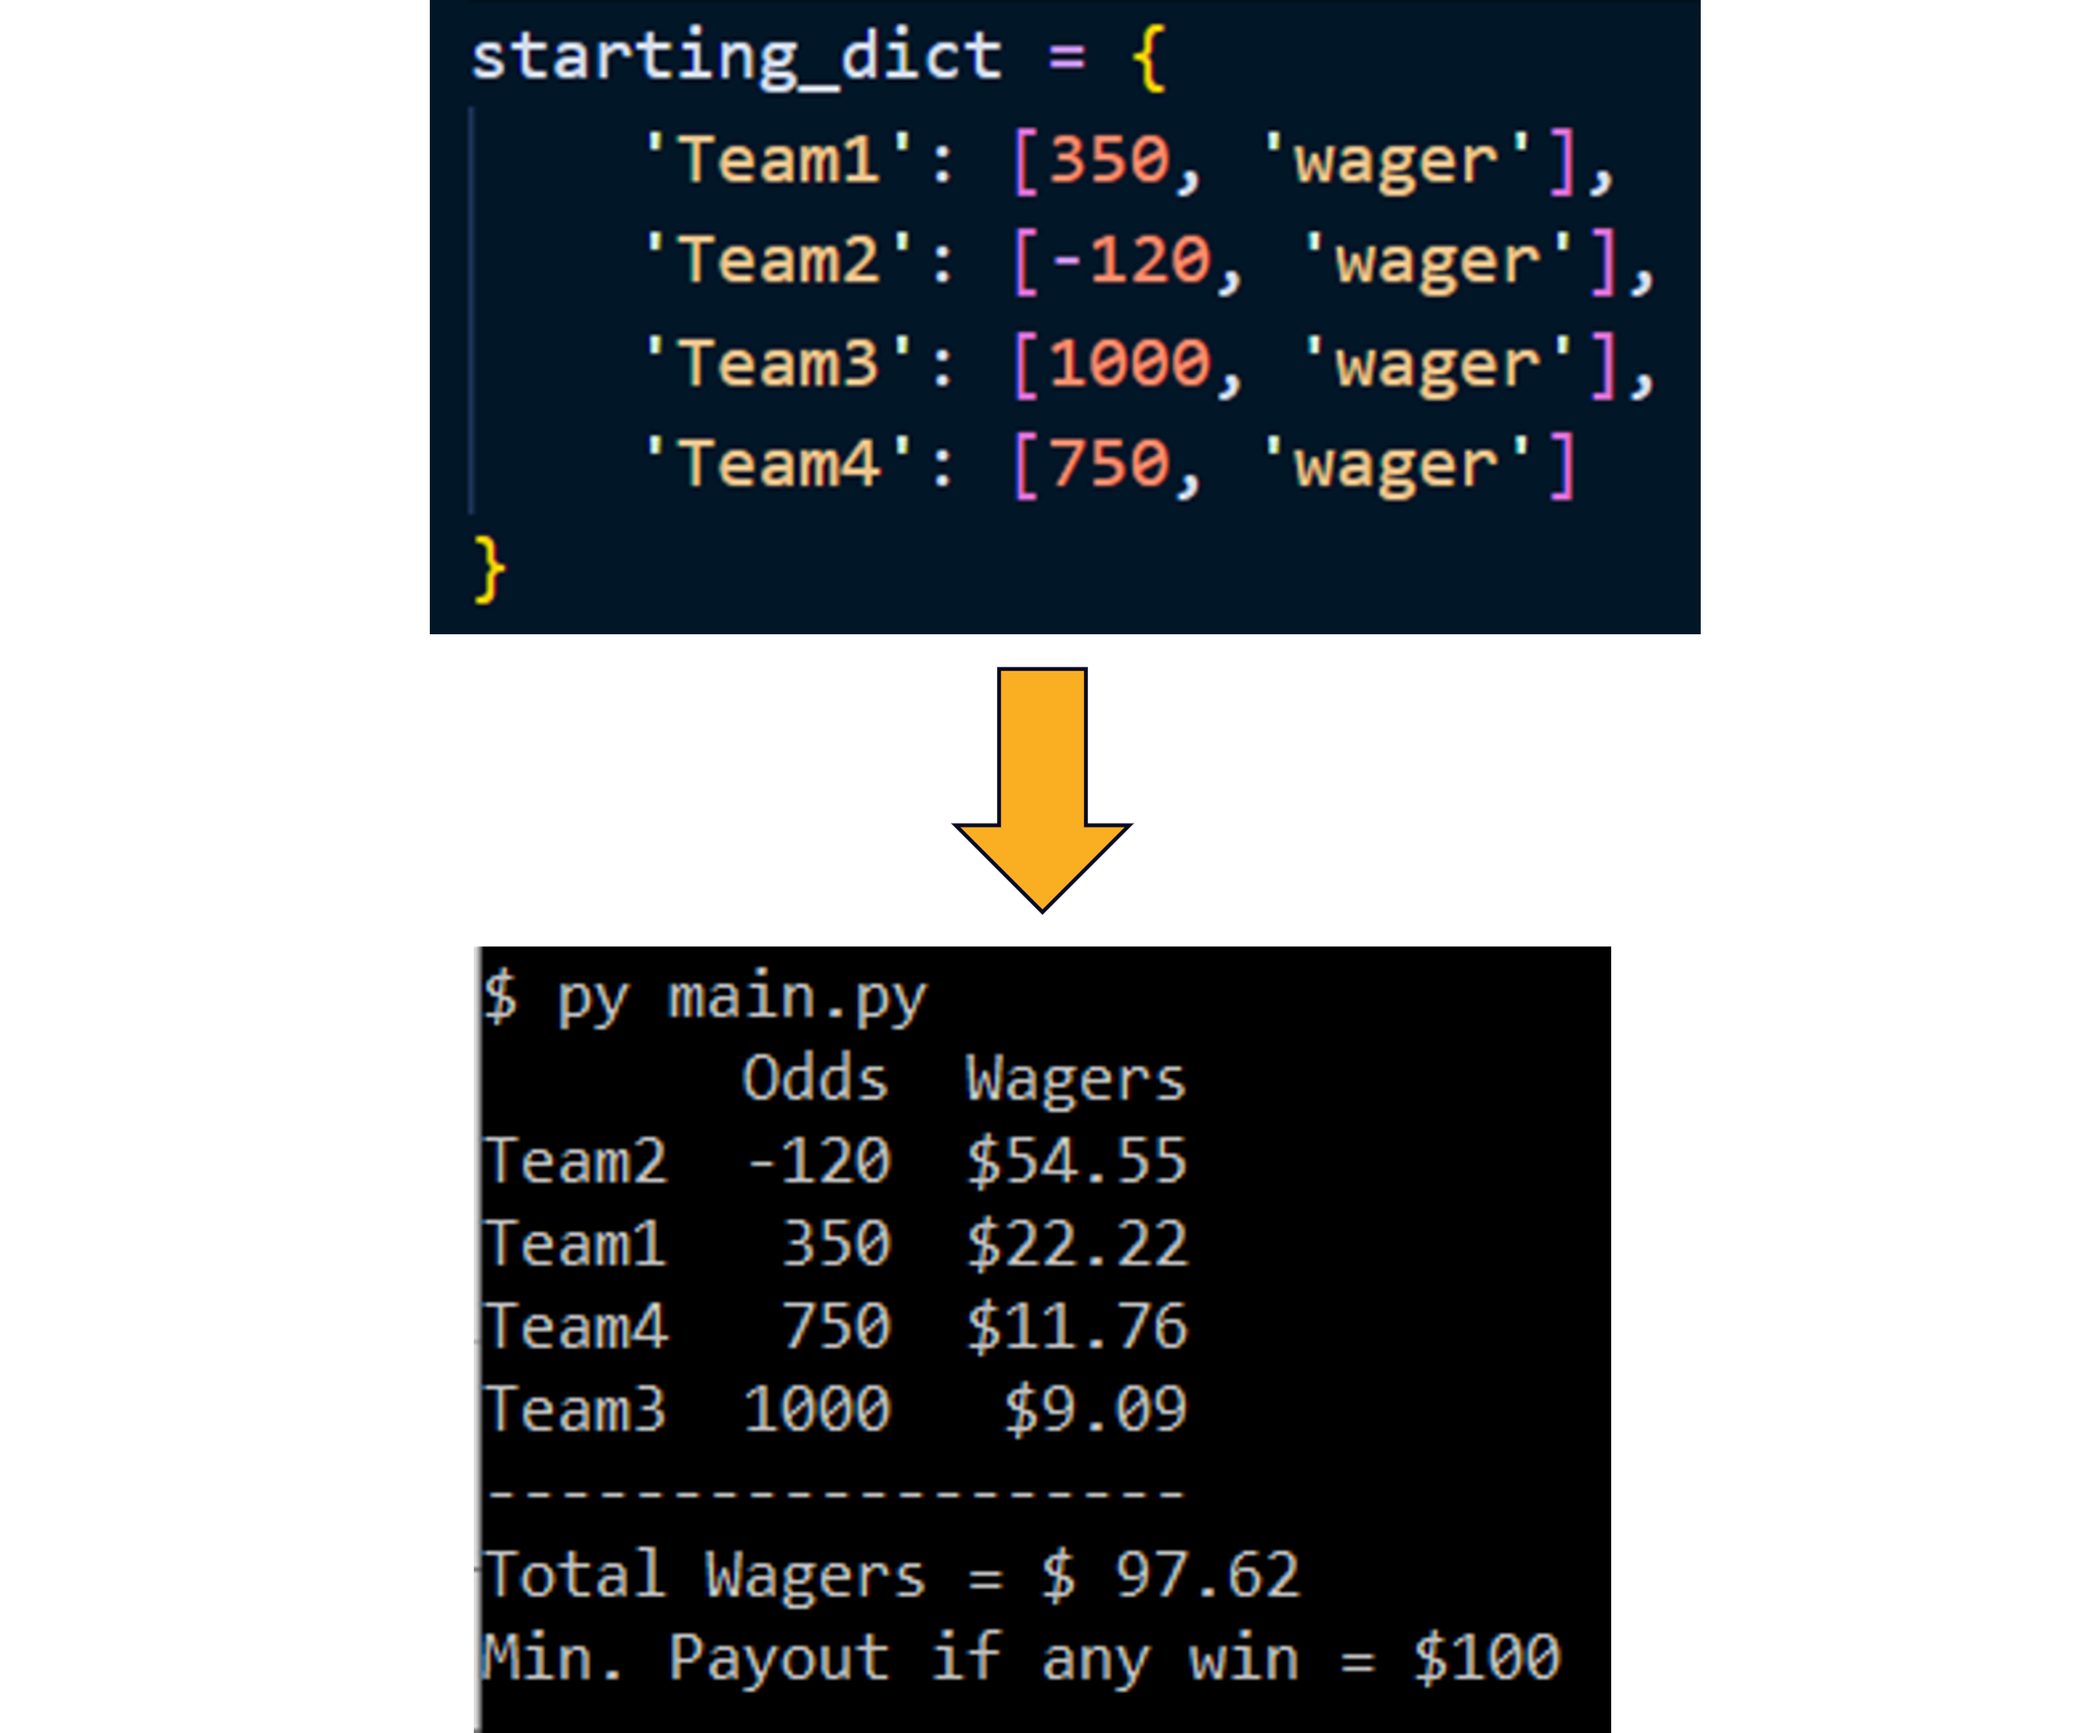
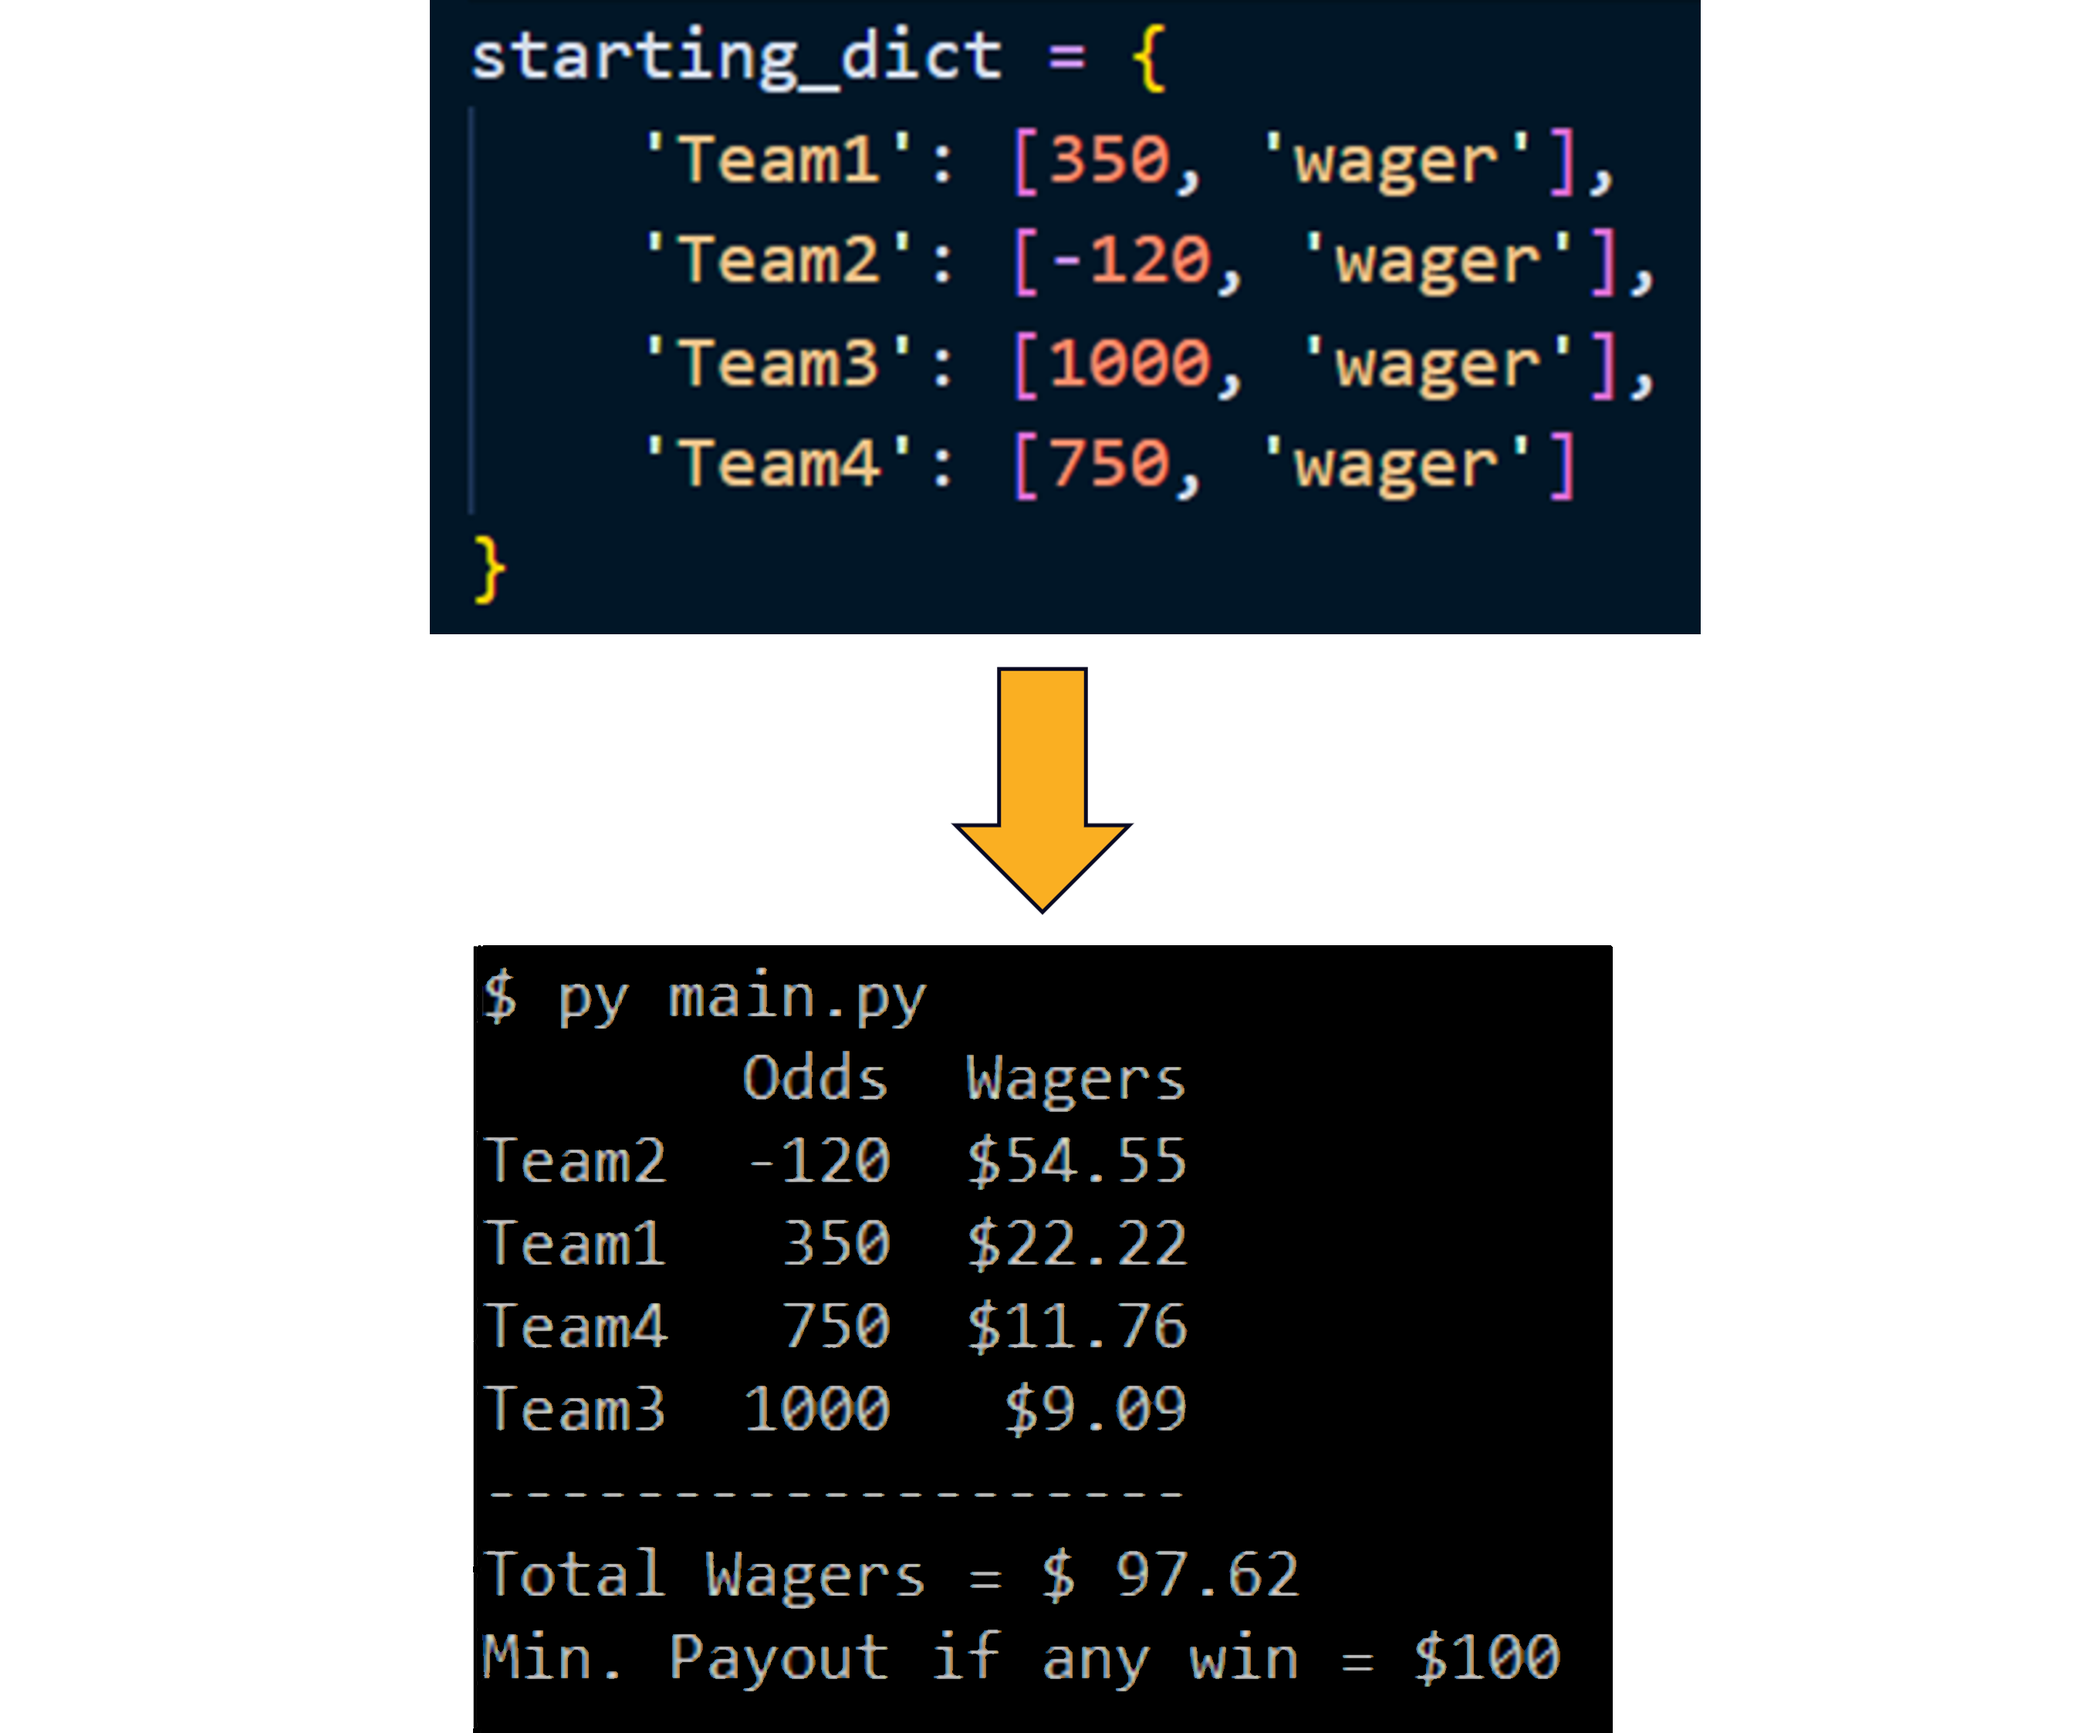
removed white border from arb.png and updated pipeline header

diff --git a/src/components/Pipeline/index.js b/src/components/Pipeline/index.js
@@ -54,7 +54,7 @@ export default function Pipeline() {
         <div className='container-fluid' style={styles.container}>
           <h3 style={styles.constructionHead}>
             <img src={darkTheme ? coneDark : coneLight} alt='construction cone' style={styles.coneLeft}></img>
-            Under Construction
+              Active Projects
             <img src={darkTheme ? coneDark : coneLight} alt='construction cone' style={styles.coneRight}></img>
           </h3>
           <PipelineShowcase />
